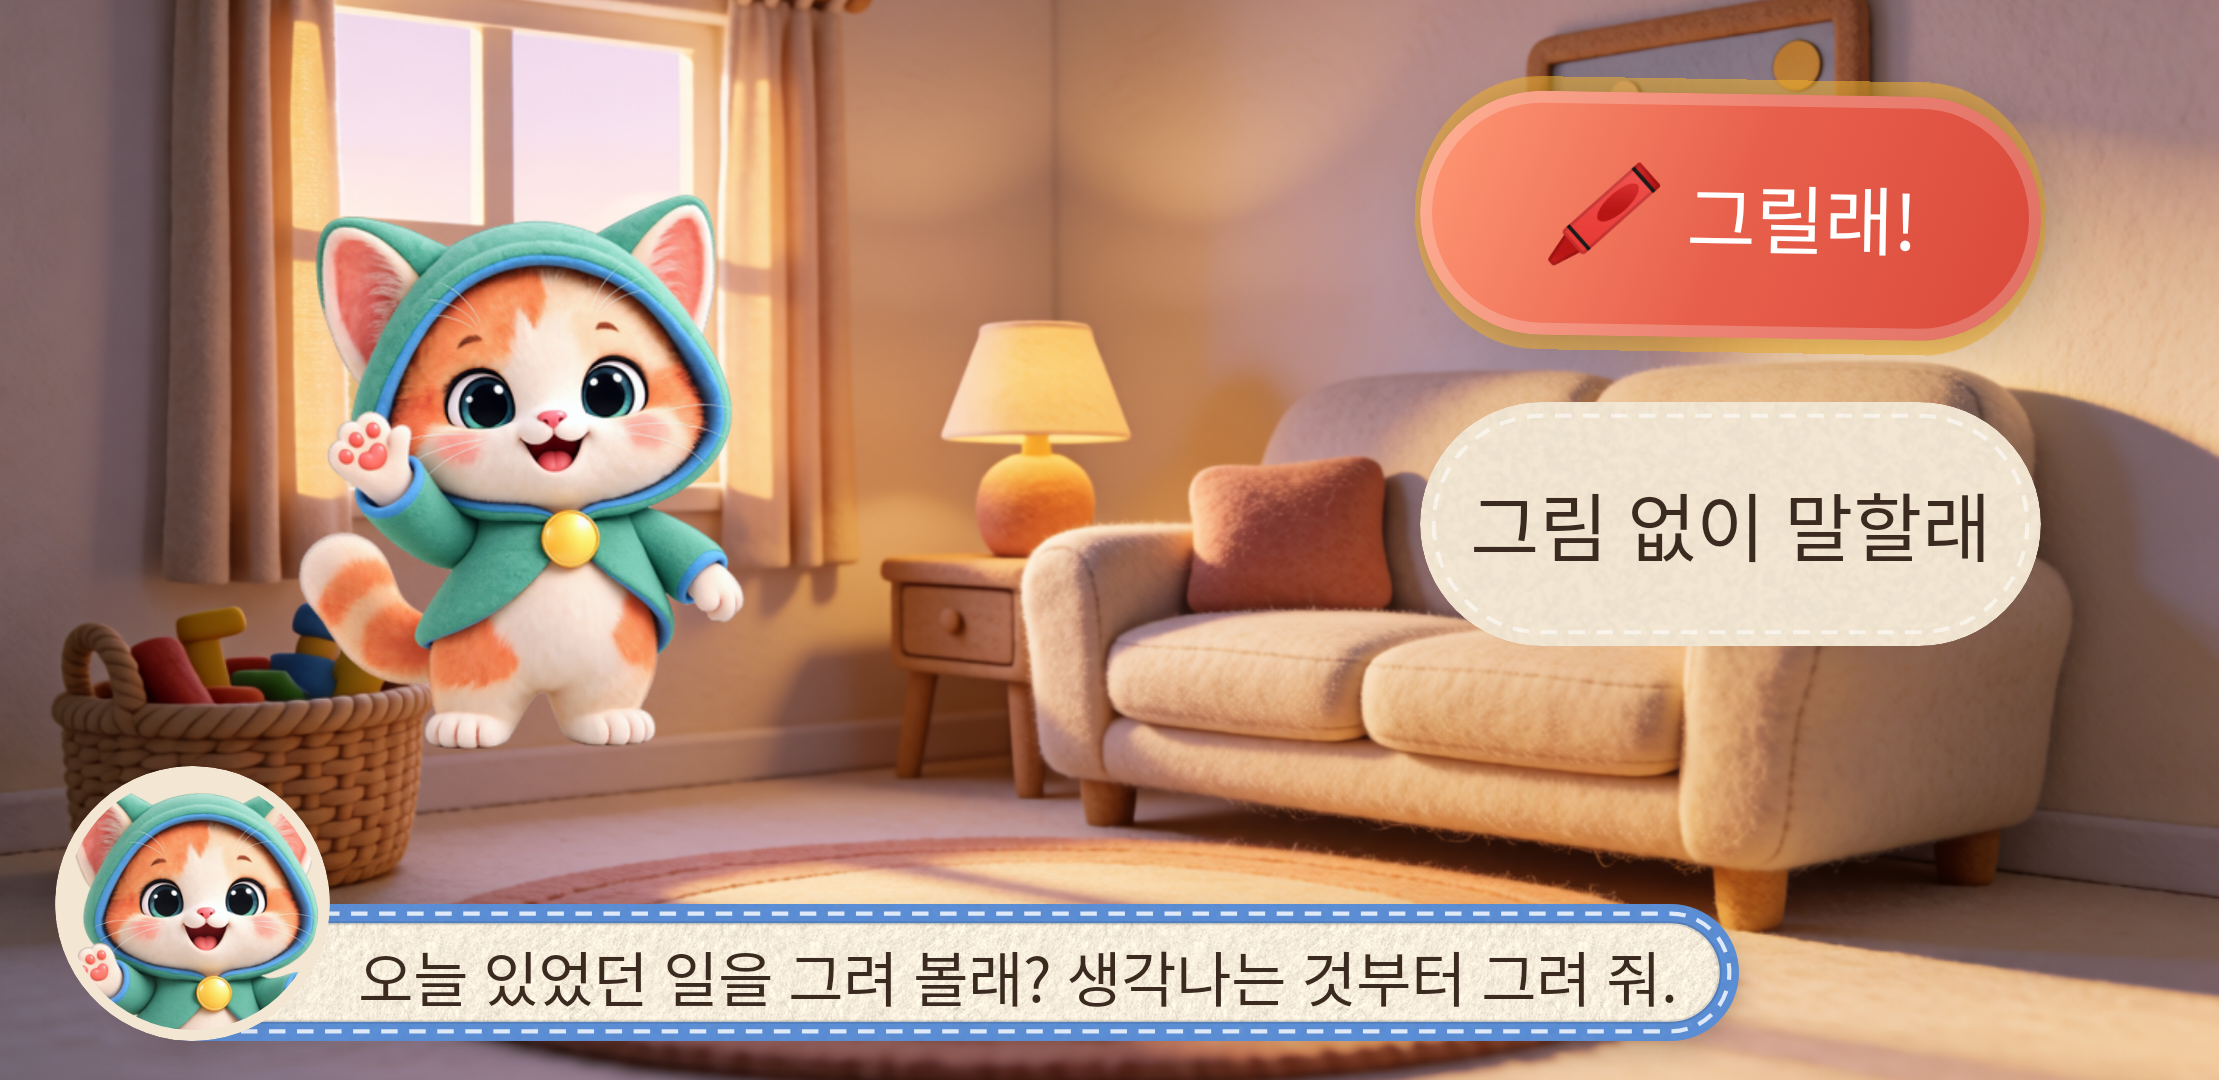
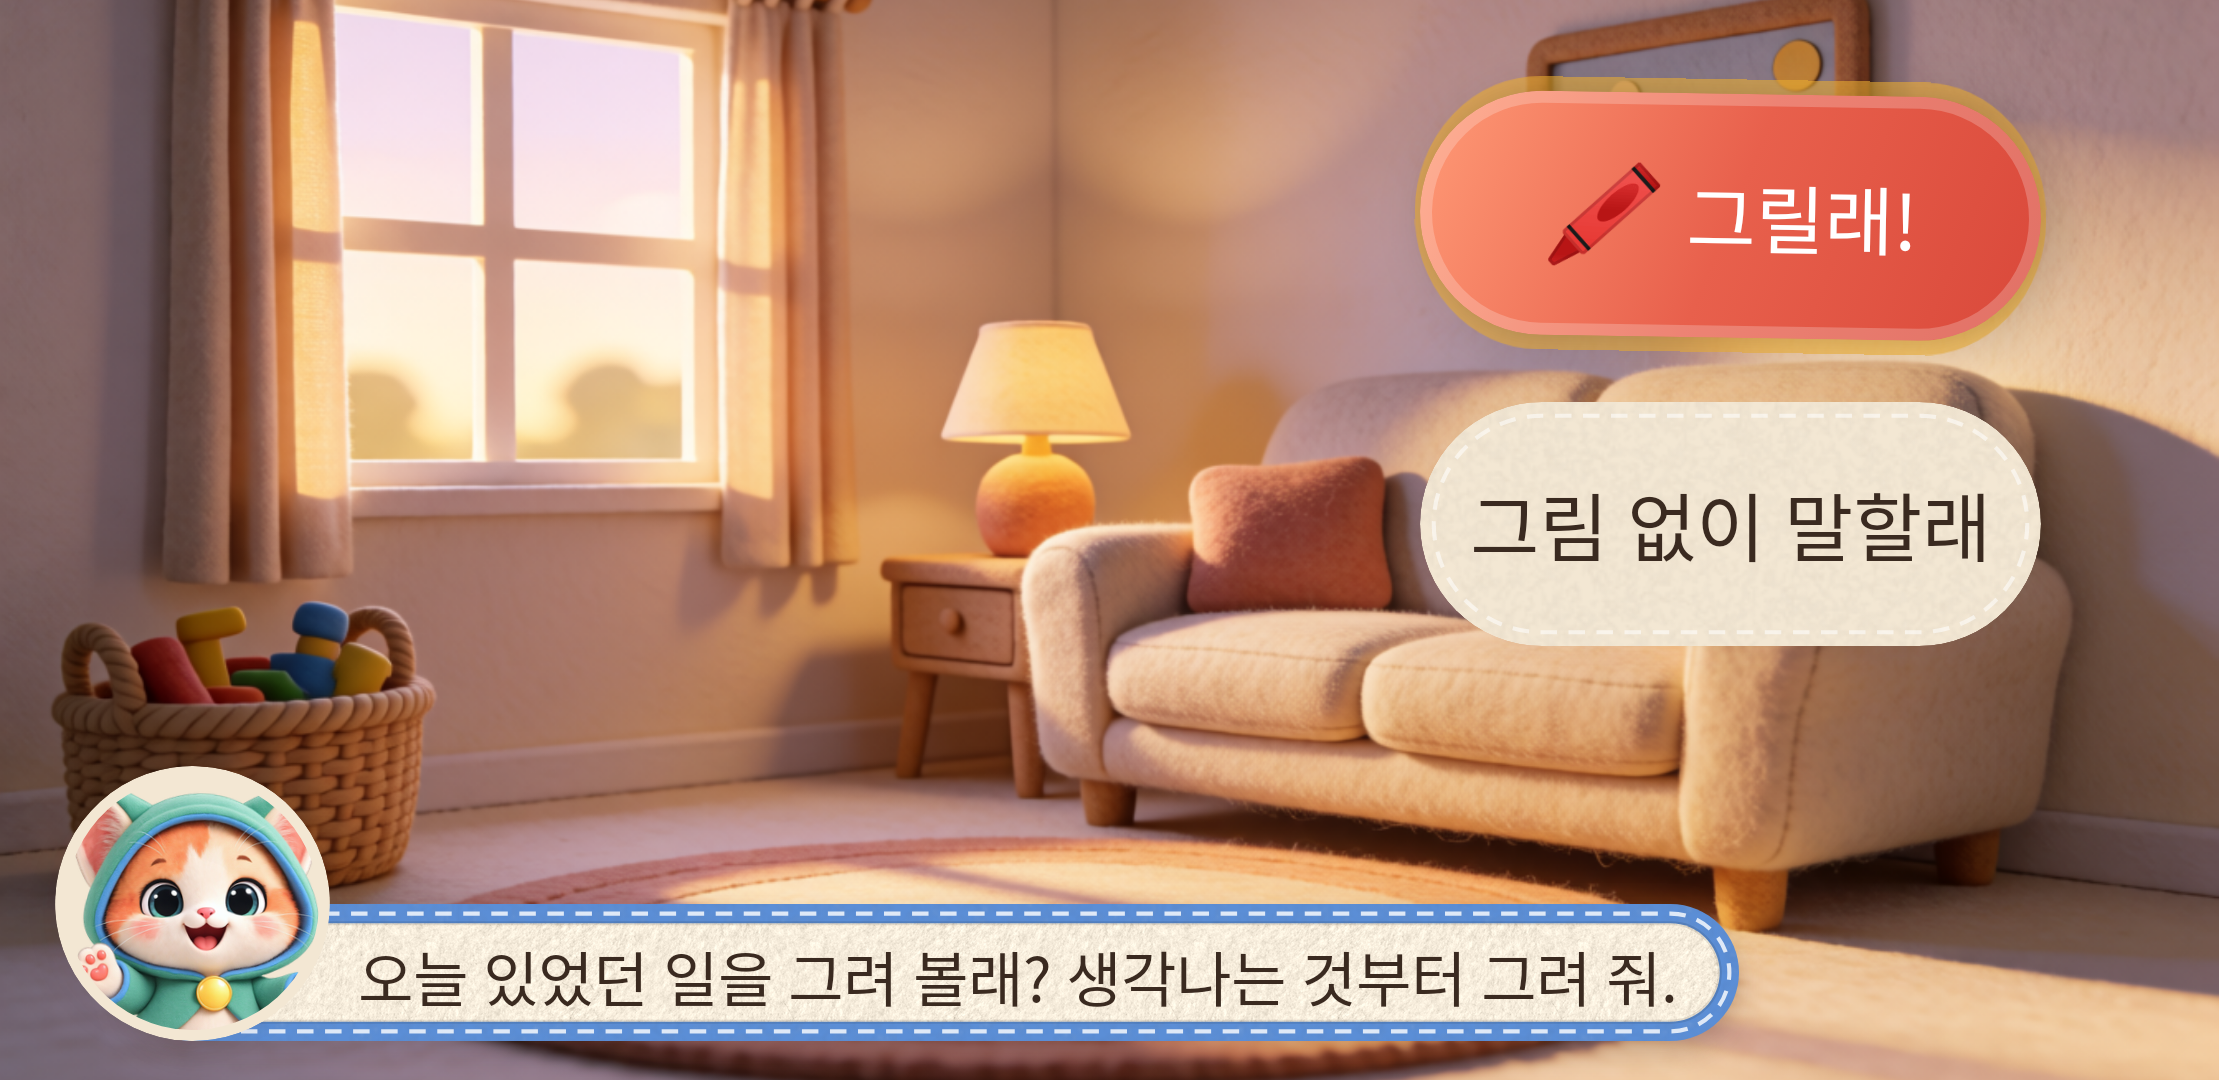
fix(diary): one Otto on the diary start screen — the waving Otto in the room is gone, the face in the speech line stays (#98)
Claude-Session: https://claude.ai/code/session_014T8D9DMqBWvFNzrUFjutEA

Changed region(s): [[0.1244, 0.1833, 0.342, 0.7028]]

diff --git a/android/app/src/main/java/com/example/finalproject_demo/ui/DiaryViews.kt b/android/app/src/main/java/com/example/finalproject_demo/ui/DiaryViews.kt
@@ -208,8 +208,7 @@ private fun Backdrop(name: String, soft: Boolean) {
 private fun DiaryStartView(d: Director, cq: Dp) {
     Box(Modifier.fillMaxSize()) {
         Backdrop("bg_home", soft = false)
-        // 앱의 대사 칸이 프로토타입보다 높다(98dp) — 오또와 버튼을 그 위에 세운다
-        Otto(Pose.WAVE, Modifier.align(Alignment.BottomStart).padding(start = cq * 10, bottom = BandTop).height(cq * 27))
+        // 오또는 아래 대사 칸의 얼굴 하나만 — 방에 서 있는 오또까지 두면 한 화면에 둘이었다 (#98)
         Column(
             Modifier.align(Alignment.TopEnd).padding(end = cq * 8, top = cq * 4.5f),
             verticalArrangement = Arrangement.spacedBy(cq * 2.6f),
